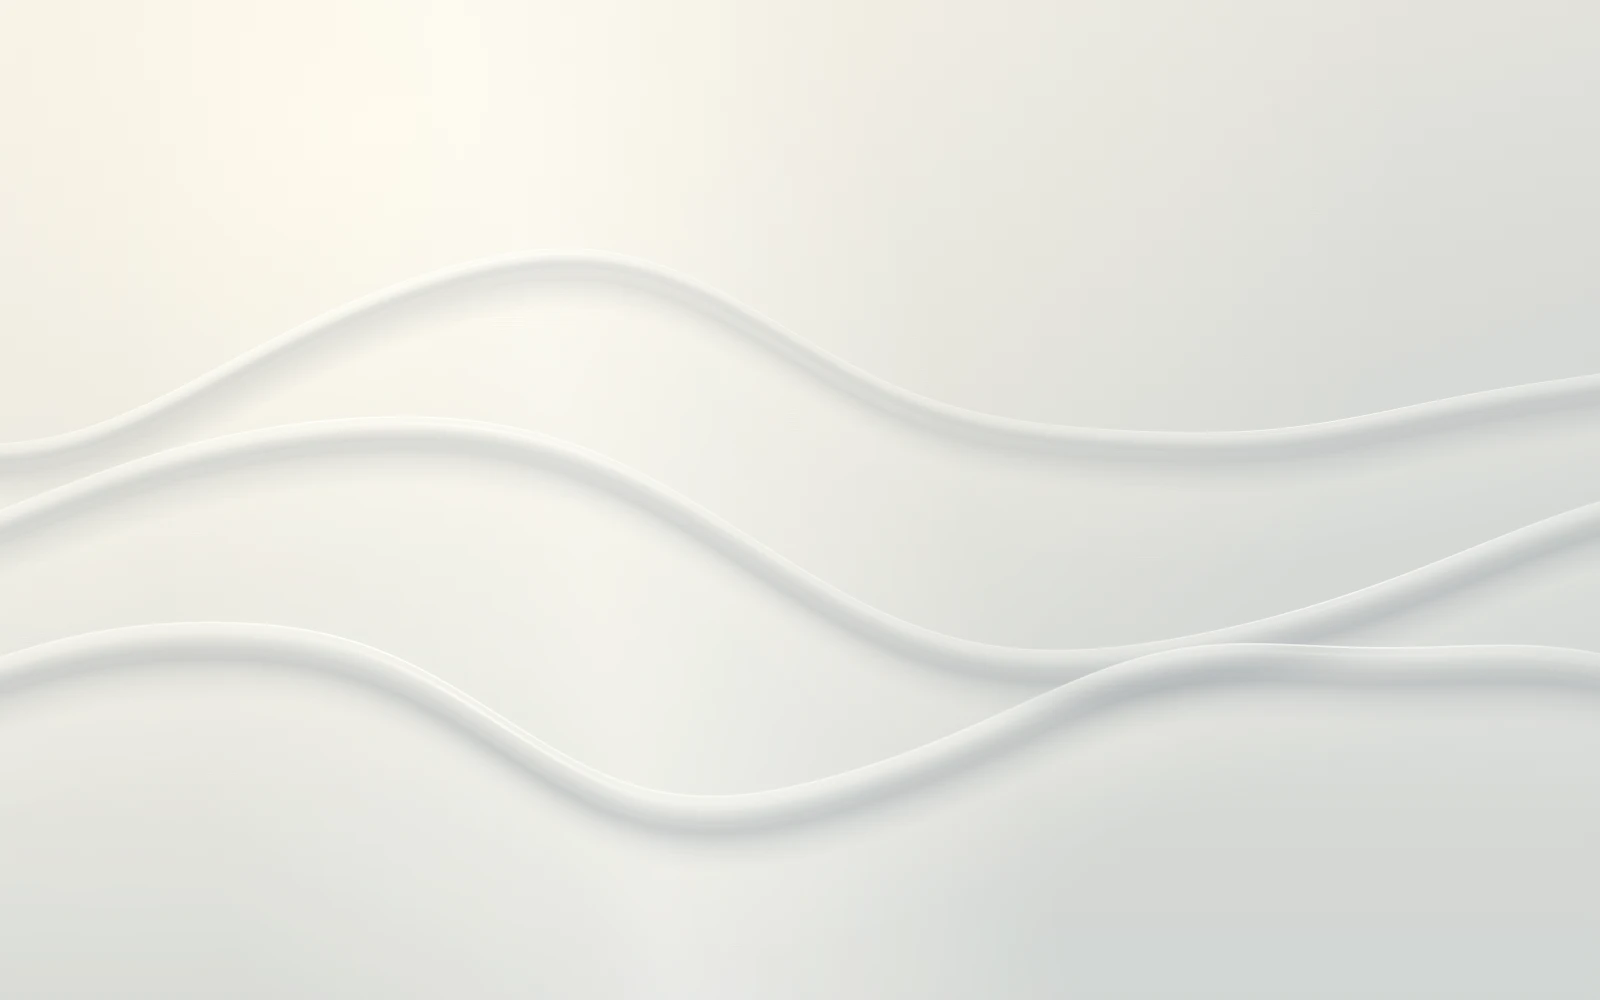
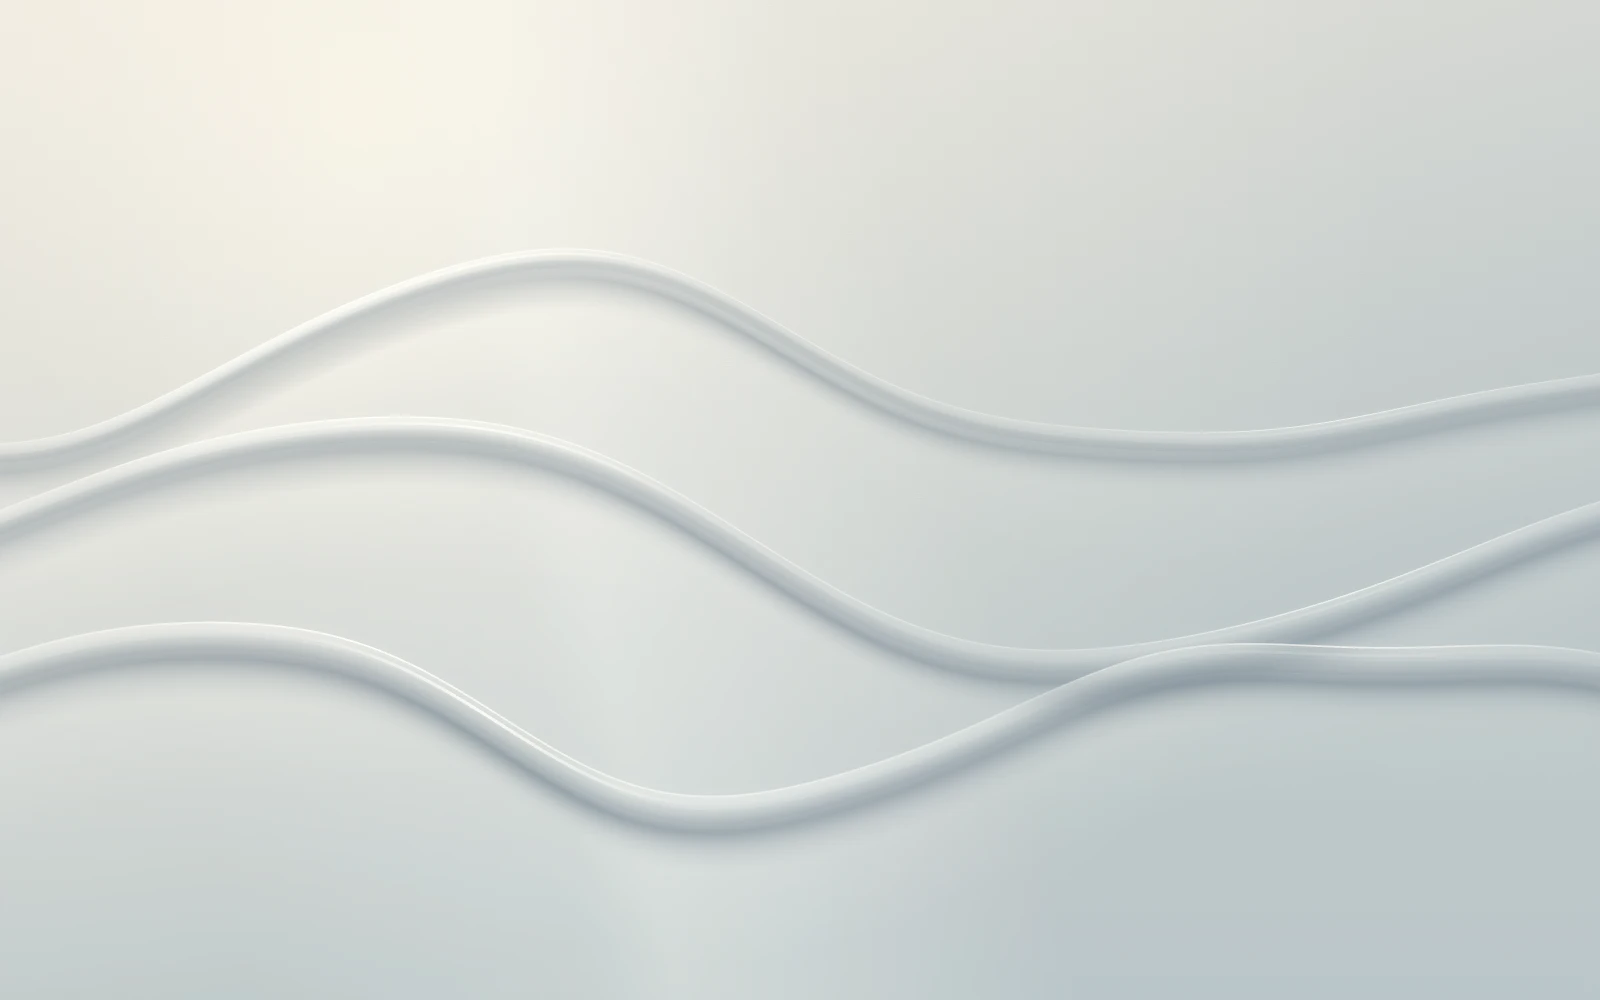
fix: strengthen directional daylight on acrylic waves

diff --git a/lab/wave-scene.js b/lab/wave-scene.js
@@ -10,11 +10,11 @@ const waves = [
   { phase: 2.48, frequency: 1.27, speed: .089, breath: .19, amplitude: .88 },
 ];
 const palette = {
-  sky: [[242, 238, 229], [8, 19, 38]],
-  floor: [[207, 211, 209], [19, 40, 68]],
+  sky: [[238, 233, 223], [8, 19, 38]],
+  floor: [[183, 195, 198], [19, 40, 68]],
   light: [[255, 249, 233], [161, 194, 232]],
   rim: [[255, 255, 250], [196, 220, 249]],
-  shade: [[106, 116, 130], [2, 10, 26]],
+  shade: [[75, 94, 112], [2, 10, 26]],
   frost: [[255, 251, 241], [112, 148, 186]],
 };
 
@@ -61,8 +61,8 @@ export function createAcrylicPainter(canvas) {
     bg.addColorStop(0, color('sky')); bg.addColorStop(1, color('floor'));
     ctx.fillStyle = bg; ctx.fillRect(0, 0, width, height);
     const sun = ctx.createRadialGradient(width * .23, height * .12, 0, width * .23, height * .12, width * .65);
-    sun.addColorStop(0, color('light', mix(.95, .17, night)));
-    sun.addColorStop(.4, color('light', mix(.4, .07, night)));
+    sun.addColorStop(0, color('light', mix(.72, .17, night)));
+    sun.addColorStop(.4, color('light', mix(.22, .07, night)));
     sun.addColorStop(1, color('light', 0));
     ctx.fillStyle = sun; ctx.fillRect(0, 0, width, height);
 
@@ -71,8 +71,8 @@ export function createAcrylicPainter(canvas) {
     ctx.translate(width * .28, 0); ctx.rotate(-.22);
     const windowLight = ctx.createLinearGradient(-width * .25, 0, width * .25, 0);
     windowLight.addColorStop(0, color('rim', 0));
-    windowLight.addColorStop(.43, color('rim', mix(.34, .07, night)));
-    windowLight.addColorStop(.52, color('rim', mix(.48, .11, night)));
+    windowLight.addColorStop(.43, color('rim', mix(.16, .07, night)));
+    windowLight.addColorStop(.52, color('rim', mix(.3, .11, night)));
     windowLight.addColorStop(1, color('rim', 0));
     ctx.fillStyle = windowLight; ctx.fillRect(-width * .25, -height, width * .5, height * 3);
     ctx.restore();
@@ -113,8 +113,8 @@ export function createAcrylicPainter(canvas) {
       ctx.clip(body);
       ctx.translate(3, 15 + index * 3);
       ctx.lineWidth = 8 + index * 3;
-      ctx.strokeStyle = color('shade', mix(.22, .22, night));
-      ctx.shadowColor = color('shade', .5); ctx.shadowBlur = 22 * dpr;
+      ctx.strokeStyle = color('shade', mix(.32, .22, night));
+      ctx.shadowColor = color('shade', mix(.58, .5, night)); ctx.shadowBlur = 22 * dpr;
       ctx.stroke(edge);
       ctx.restore();
 
@@ -135,8 +135,8 @@ export function createAcrylicPainter(canvas) {
       }
       ctx.globalAlpha = 1;
       const milk = ctx.createLinearGradient(0, base - amplitude, 0, height);
-      milk.addColorStop(0, color('frost', mix(.12, .07, night)));
-      milk.addColorStop(.3, color('frost', mix(.08, .035, night)));
+      milk.addColorStop(0, color('frost', mix(.07, .07, night)));
+      milk.addColorStop(.3, color('frost', mix(.045, .035, night)));
       milk.addColorStop(1, color('frost', mix(.02, .015, night)));
       ctx.fillStyle = milk; ctx.fillRect(0, 0, width, height);
 
@@ -146,13 +146,17 @@ export function createAcrylicPainter(canvas) {
       for (let j = 0; j < points.length - 1; j++) {
         const p = points[j], q = points[j + 1];
         const slope = (q.y - p.y) / (q.x - p.x);
-        const lit = clamp(.62 - slope * .55, .15, 1);
-        const local = .64 + .36 * Math.exp(-Math.pow((p.x / width - .27) / .26, 2));
+        // Daylight has less ambient fill and a stronger key light from the upper left.
+        // Keep the moonlight endpoint unchanged while interpolating between themes.
+        const lit = mix(clamp(.58 - slope * .85, .08, 1), clamp(.62 - slope * .55, .15, 1), night);
+        const local = mix(
+          .28 + .72 * Math.exp(-Math.pow((p.x / width - .27) / .22, 2)),
+          .64 + .36 * Math.exp(-Math.pow((p.x / width - .27) / .26, 2)), night);
         const shade = ctx.createLinearGradient(p.x, p.y, p.x - slope * depth / (1 + slope * slope), p.y + depth / (1 + slope * slope));
-        shade.addColorStop(0, color('rim', lit * local * mix(.78, .38, night)));
-        shade.addColorStop(.07, color('rim', lit * local * mix(.25, .12, night)));
-        shade.addColorStop(.21, color('shade', mix(.14, .11, night) * (1.2 - lit * .35)));
-        shade.addColorStop(.44, color('frost', lit * mix(.18, .06, night)));
+        shade.addColorStop(0, color('rim', lit * local * mix(.98, .38, night)));
+        shade.addColorStop(.07, color('rim', lit * local * mix(.42, .12, night)));
+        shade.addColorStop(.21, color('shade', mix(.24, .11, night) * mix(1.35 - lit * .7, 1.2 - lit * .35, night)));
+        shade.addColorStop(.44, color('frost', lit * mix(local * .3, .06, night)));
         shade.addColorStop(1, color('frost', 0));
         ctx.fillStyle = shade;
         ctx.beginPath(); ctx.moveTo(p.x, p.y - 1); ctx.lineTo(q.x, q.y - 1);
@@ -162,7 +166,7 @@ export function createAcrylicPainter(canvas) {
       const glint = ctx.createLinearGradient(0, 0, width, 0);
       glint.addColorStop(0, color('rim', 0));
       glint.addColorStop(.18, color('rim', mix(.12, .045, night)));
-      glint.addColorStop(.3, color('rim', mix(.65, .32, night)));
+      glint.addColorStop(.3, color('rim', mix(.85, .32, night)));
       glint.addColorStop(.43, color('rim', mix(.1, .03, night)));
       glint.addColorStop(.65, color('rim', 0));
       glint.addColorStop(.84, color('rim', mix(.18, .09, night)));

diff --git a/docs/discovery/lab-frosted-acrylic-implementation.md b/docs/discovery/lab-frosted-acrylic-implementation.md
@@ -8,7 +8,7 @@
 
 `/lab/` 使用 Canvas 2D 分层合成，保留 `7e3038a` 的横向长波、正弦叠加、温和倾斜与滚动展开。没有回退主站首页，也不再加载 Three.js。材质是二维的光照与透射近似，不是真实三维体积折射。
 
-- 日光：暖象牙背景、暖白局部反射、灰蓝层间阴影。根据大屏反馈加深主体和阴影，降低霜面泛白，以提高波面与背景的对比度。
+- 日光：暖象牙背景、暖白局部反射、灰蓝层间阴影。进一步降低环境填充与大范围泛白，把主光集中在左上方；增强曲面朝向对亮度的影响，提高迎光面反射与背光侧阴影的差异，强调光照在材质上的感觉。
 - 月光：深蓝 `#081326` 至 `#132844` 环境、银蓝细边和较弱的表面反射。与亮色共用几何、相位和纹理，切换只插值配色。
 - 材质：先画后景与投影，再通过波面裁切合成柔化后景；曲线斜率影响局部亮度，细边与局部反射最后绘制。页面文字独立于画布。
 - 霜面：半分辨率离屏缓冲区；支持 Canvas filter 时对透射图像做 5–8px 柔化，不支持时用多点偏移采样。首轮低分辨率放大在大屏产生阶梯感，已替换；曲线采样从 12px 加密到 6px，修正渐变方向与分段重叠，并移除宽屏无必要的画布扩张。
@@ -33,7 +33,7 @@
 
 桌面 DPR 上限 1.5，窄屏上限 1；窄屏按约 30fps 调度。连续绘制提交耗时过高时依次降低缓冲区 / DPR、减少波层，最终回退 poster。这个指标不包含全部异步 GPU 工作，不能当作完整能耗或帧率测量。
 
-从同一渲染器固定相位导出两套 WebP poster：日光约 18.5KB，月光约 25.0KB。新波面模块约 14.3KB；正式 Lab 的两个 JS 文件合计约 18.9KB。首版约 720KB 的 Three.js 依赖仅保留于 archive，当前页面不会请求它们。以上为未压缩文件大小，非部署后的实际传输量。
+从同一渲染器固定相位导出两套 WebP poster：日光约 23.0KB，月光约 25.0KB。新波面模块约 14.7KB；正式 Lab 的两个 JS 文件合计约 19.3KB。首版约 720KB 的 Three.js 依赖仅保留于 archive，当前页面不会请求它们。以上为未压缩文件大小，非部署后的实际传输量。
 
 ## 归档
 
@@ -56,6 +56,7 @@
 | 暂停 / 主题 / resize | 暂停后的相位固定；切换主题和 resize 后仍固定；恢复后继续推进 |
 | 独立运动 | 导出 0、15、30、35、45、60 秒相位图；三层采用不同频率与方向，几何随时间演进 |
 | 亚克力交叠 | 检查第 35 秒的亮暗材质图；前层轮廓连续，后层在覆盖区内柔化透射，移除了最小间距挤压导致的折角 |
+| 日光受光增强 | 检查 2560px 大屏与第 35 秒交叠相位；日光明暗更明确。相同尺寸 / 相位下，夜间原始像素与调整前逐通道比较差异为 0；暂停、主题、响应式与静态降级回归通过 |
 | 离屏 | 滚动至 About 进入 idle，停止推进；内容入场可见 |
 | reduced-motion | 浏览器真实媒体模拟启用后取消场景、隐藏运动控件；解除后恢复场景 |
 | 降级 | 无 JS、Canvas 不可用、localStorage 被阻止、无 Canvas filter 均通过；合成 contextlost 事件可回退 poster |
